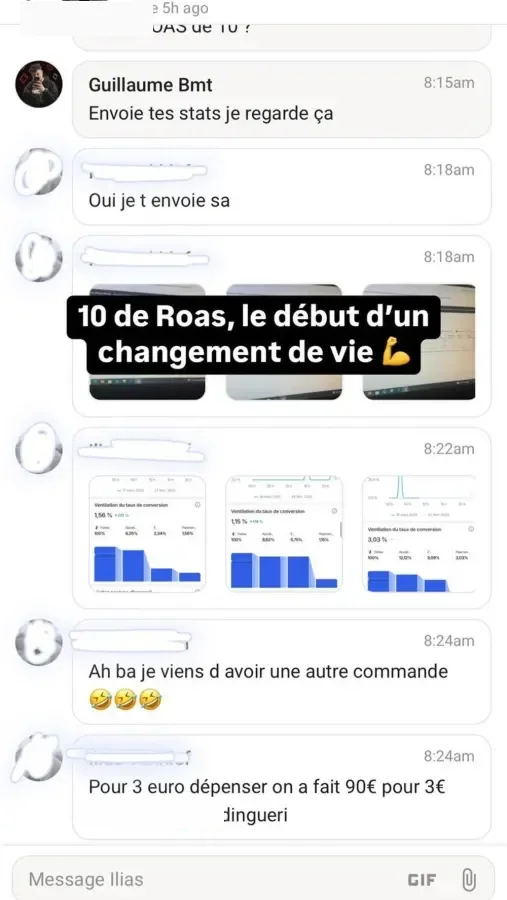
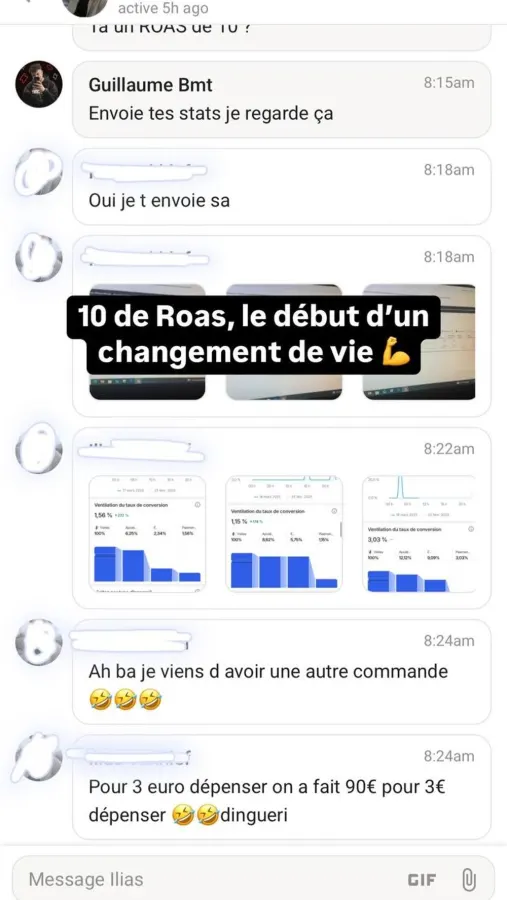
Académie : prénoms et résultats sous les captures, provenance des boutons de réservation

Changed region(s): [[0.1775, 0.8711, 0.4438, 0.9333], [0.1183, 0.0, 0.2071, 0.0311], [0.2367, 0.0, 0.2959, 0.0311]]

diff --git a/academie/assets/app.js b/academie/assets/app.js
@@ -19,11 +19,32 @@
     const vh = () => window.innerHeight;
 
     /* ─── Tous les boutons d'appel ouvrent directement la réservation ─── */
+    /* Chaque bouton porte sa provenance : sur cal.com tu vois quel bloc a déclenché la réservation. */
+    const zoneOf = el => {
+      if (el.closest('.m-cta')) return 'barre-mobile';
+      if (el.closest('.nav')) return 'menu';
+      if (el.closest('.mmenu')) return 'menu-mobile';
+      if (el.closest('.hero')) return 'haut-de-page';
+      if (el.closest('#offres')) return el.closest('.feat') ? 'offre-coaching' : 'offre-formation';
+      const sec = el.closest('section');
+      return (sec && (sec.id || sec.className.split(' ')[0])) || 'page';
+    };
+    const withSource = (url, zone) => {
+      try {
+        const u = new URL(url);
+        u.searchParams.set('utm_source', 'academie');
+        u.searchParams.set('utm_medium', zone);
+        u.searchParams.set('utm_campaign', 'landing');
+        return u.toString();
+      } catch (e) { return url; }
+    };
     if (BOOKING_URL) {
       document.querySelectorAll('a[href="#appel"]').forEach(a => {
-        a.href = BOOKING_URL;
+        const zone = zoneOf(a);
+        a.href = withSource(BOOKING_URL, zone);
         a.target = '_blank';
         a.rel = 'noopener noreferrer';
+        a.dataset.zone = zone;
       });
     }
 
@@ -123,14 +144,14 @@
     const fig = (c, inner) => `<figure class="${c}">${inner}</figure>`;
     const r1 = ['R5','R12','R3','R1','R15','R14','R8','R4'].map(n => fig('sq', `<img src="assets/dash/${n}.webp" alt="" loading="lazy" decoding="async">`)).join('');
     const r2 = [
-      fig('pt', '<img src="assets/avis/roas10.webp" alt="" loading="lazy" decoding="async">'),
+      fig('pt', '<img src="assets/avis/roas10.webp" alt="" loading="lazy" decoding="async"><figcaption>Ilias · 10 de ROAS</figcaption>'),
       fig('pt', '<video src="assets/chine/carte-produit.mp4" muted loop playsinline preload="none"></video>'),
-      fig('pt', '<img src="assets/avis/avis.webp" alt="" loading="lazy" decoding="async">'),
-      fig('pt', '<img src="assets/avis/vente1.webp" alt="" loading="lazy" decoding="async">'),
+      fig('pt', '<img src="assets/avis/avis.webp" alt="" loading="lazy" decoding="async"><figcaption>Son retour sur la formation</figcaption>'),
+      fig('pt', '<img src="assets/avis/vente1.webp" alt="" loading="lazy" decoding="async"><figcaption>Sa première vente</figcaption>'),
       fig('pt', '<video src="assets/chine/showroom-parfum2.mp4" muted loop playsinline preload="none"></video>'),
-      fig('pt', '<img src="assets/avis/accomp2.webp" alt="" loading="lazy" decoding="async">'),
-      fig('pt', '<img src="assets/avis/eleve4.webp" alt="" loading="lazy" decoding="async">'),
-      fig('pt', '<img src="assets/avis/accomp1.webp" alt="" loading="lazy" decoding="async">')
+      fig('pt', '<img src="assets/avis/accomp2.webp" alt="" loading="lazy" decoding="async"><figcaption>1 000 € par jour, stabilisés</figcaption>'),
+      fig('pt', '<img src="assets/avis/eleve4.webp" alt="" loading="lazy" decoding="async"><figcaption>Rayan · sa première journée</figcaption>'),
+      fig('pt', '<img src="assets/avis/accomp1.webp" alt="" loading="lazy" decoding="async"><figcaption>Suivi avec son coach</figcaption>')
     ].join('');
     document.getElementById('rb1').innerHTML = r1 + r1;
     document.getElementById('rb2').innerHTML = r2 + r2;
@@ -164,7 +185,7 @@
       e.preventDefault();
       if (!BOOKING_URL) { bookBtn.textContent = 'Calendrier bientôt disponible'; return; }
       if (EMBED_BOOKING) document.getElementById('booking').innerHTML = `<iframe src="${BOOKING_URL}" title="Réserver un appel" loading="lazy" decoding="async" data-lenis-prevent></iframe>`;
-      else window.open(BOOKING_URL, '_blank', 'noopener');
+      else window.open(withSource(BOOKING_URL, 'bloc-final'), '_blank', 'noopener');
     });
 
     /* ─── Tableaux de ventes + logos ─── */

diff --git a/academie/index.html b/academie/index.html
@@ -1331,6 +1331,11 @@
       .terrain-card,.canton-hero{border-radius:22px}
     }
 
+    .rb-track figure{position:relative}
+    .rb-track figcaption{position:absolute;left:0;right:0;bottom:0;padding:16px 10px 8px;font-family:var(--cond);font-weight:600;font-size:13px;letter-spacing:.04em;color:#fff;
+      background:linear-gradient(0deg,rgba(6,4,12,.92),transparent);text-align:center}
+    @media (max-width:640px){.rb-track figcaption{font-size:11px;padding:12px 6px 6px}}
+
   </style>
 </head>
 <body>
